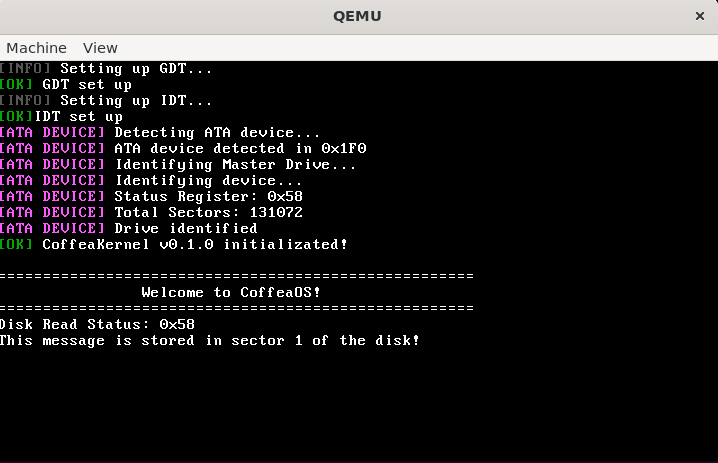
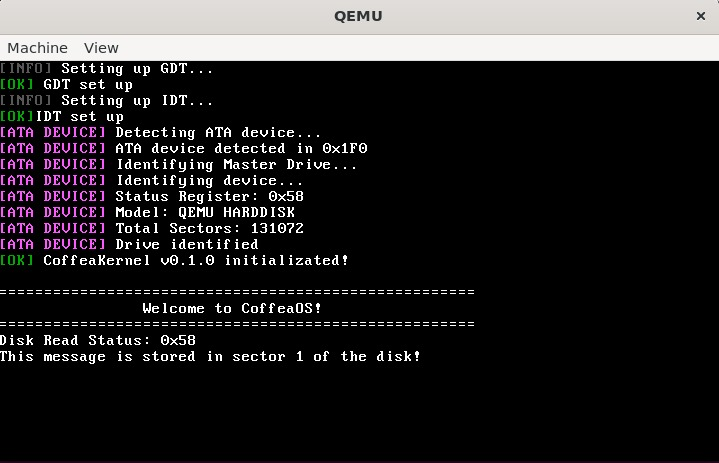
Captura modelo do dispositivo ATA

Changed region(s): [[0.0, 0.0907, 0.6435, 0.7862], [0.4596, 0.0302, 0.5209, 0.0605], [0.1838, 0.121, 0.2451, 0.1512]]

diff --git a/drivers/ata.c b/drivers/ata.c
@@ -75,6 +75,26 @@ uint8_t wait_drq(uint8_t* status)
   return 1;
 }
 
+void get_device_model(uint16_t* buffer)
+{
+  // Indice para model
+  int disk_index = 0;
+
+  for (int i = 27; i < 41; i++)
+  {
+    // Captura a word do modelo
+    uint16_t model = buffer[i];
+  
+    // Byte swapping
+    disk.model[disk_index++] = (char)(model >> 8);
+    disk.model[disk_index++] = (char)(model & 0xFF);
+  }
+
+  ata_device_output_header();
+  ata_device_msg_color();
+  kprintf("Model: %s\n", disk.model);
+}
+
 void ata_lba28_read_sectors(uint32_t lba, uint8_t sector_count, uint16_t* buffer)
 {
   klog_info("Reading sector...");
@@ -186,6 +206,9 @@ uint8_t identify_device(unsigned char drive)
 
   // Extrai a quantidade total de setores
   disk.total_sectors = ((uint32_t)buffer[61] << 16) | buffer[60];
+
+  // Extrai o modelo
+  get_device_model(buffer);
 
   // Disco rigído existe
   disk.is_exist = 1;